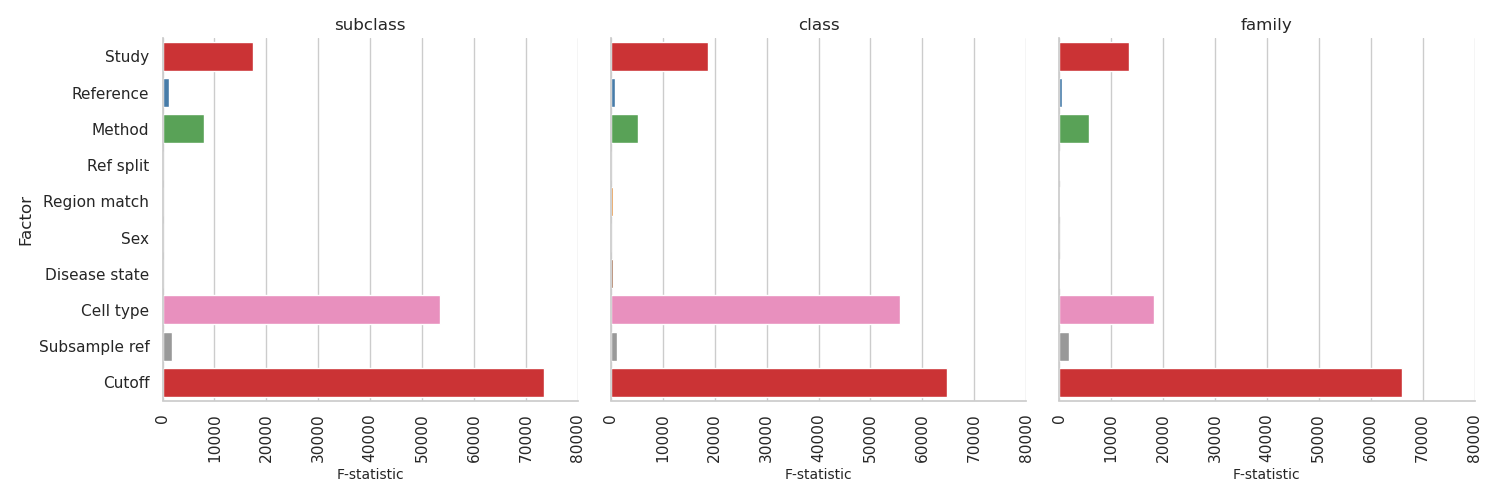
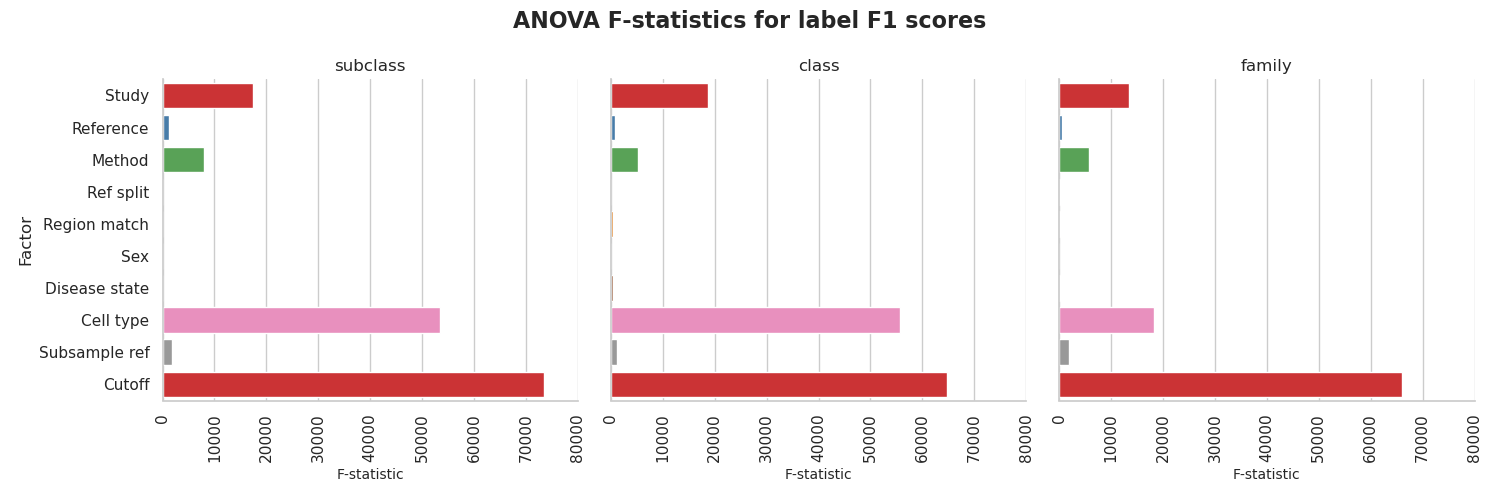
add new results

diff --git a/bin/run_anova.py b/bin/run_anova.py
@@ -83,6 +83,9 @@ def plot_anova_results(aov_combined_df, title_prefix):
     g.set_xticklabels(rotation=90)
     g.set_ylabels(fontsize=12)
         # Adjust layout and save the figure
+    newtitle = title_prefix.split("_")[0]
+    g.fig.suptitle(f"ANOVA F-statistics for {newtitle} F1 scores", fontsize=16, fontweight='bold')
+
     plt.tight_layout()
     plt.savefig(f"{title_prefix}_anova_plot.png")
     
